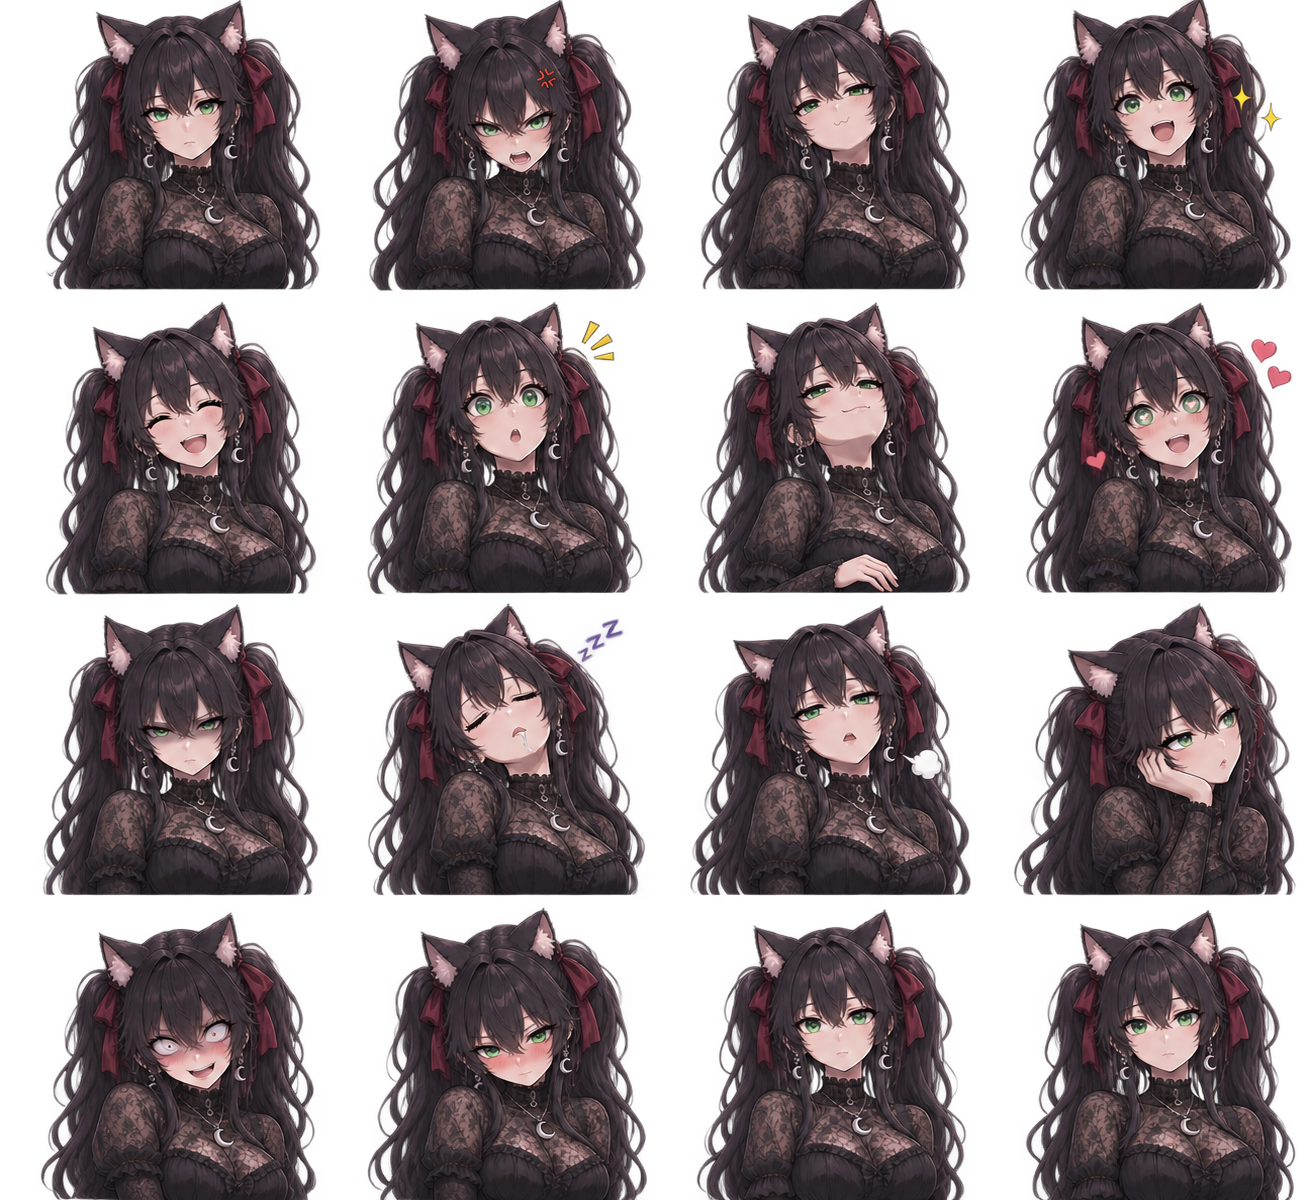
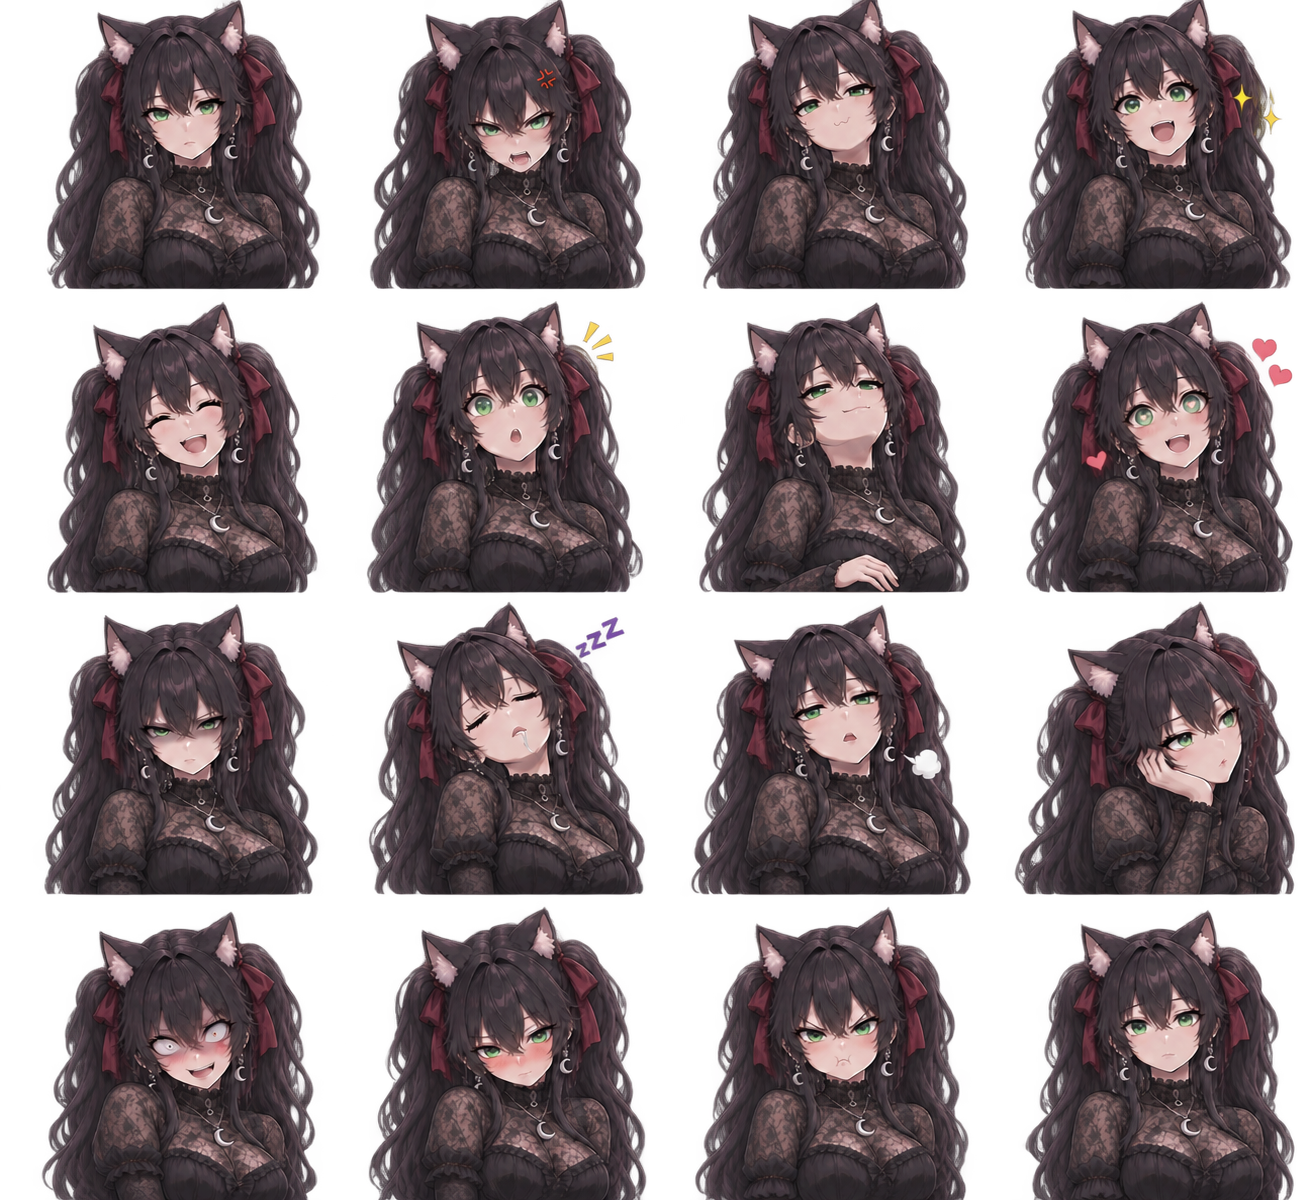
fix: Add the distinct pout to upper-body reactions

diff --git a/src/app/scenery/catgirl.rs b/src/app/scenery/catgirl.rs
@@ -208,11 +208,7 @@ fn portrait_texture(
                 Source::Portraits
             };
             let image = source_image(ctx, source)?;
-            let cell = if full_body && expression == Expression::Pout {
-                2
-            } else {
-                expression.cell()
-            };
+            let cell = expression.cell();
             let width = image.width() / 4;
             let height = image.height() / 4;
             let crop = image

diff --git a/assets/themes/midnight-neko/upper-body-pout-prompt.md b/assets/themes/midnight-neko/upper-body-pout-prompt.md
@@ -1,0 +1,3 @@
+# Built-in imagegen upper-body pout correction
+
+Edit the supplied transparent 4x4 upper-body sprite atlas. Preserve exactly its character identity, clothing, framing, transparency, natural poses and expression order. Keep row1 column3 (the smug catlike :3 face) unchanged; it is now a separate CatSmug expression. ONLY replace row4 column3, currently a duplicate neutral, with a clear annoyed POUT: puffed cheeks, furrowed brows, protruding pursed downturned small lips, not smiling, not smug, not a catlike :3 mouth. Same beautiful detailed green anime eyes, same adult black-haired gothic catgirl, same upper-body scale and black lace dress. Preserve all other fifteen cells. No scythe, no legs, no background, no frames, no grid lines, no matte halos; clean transparent silhouettes. Exact equal 4x4 cell grid.
